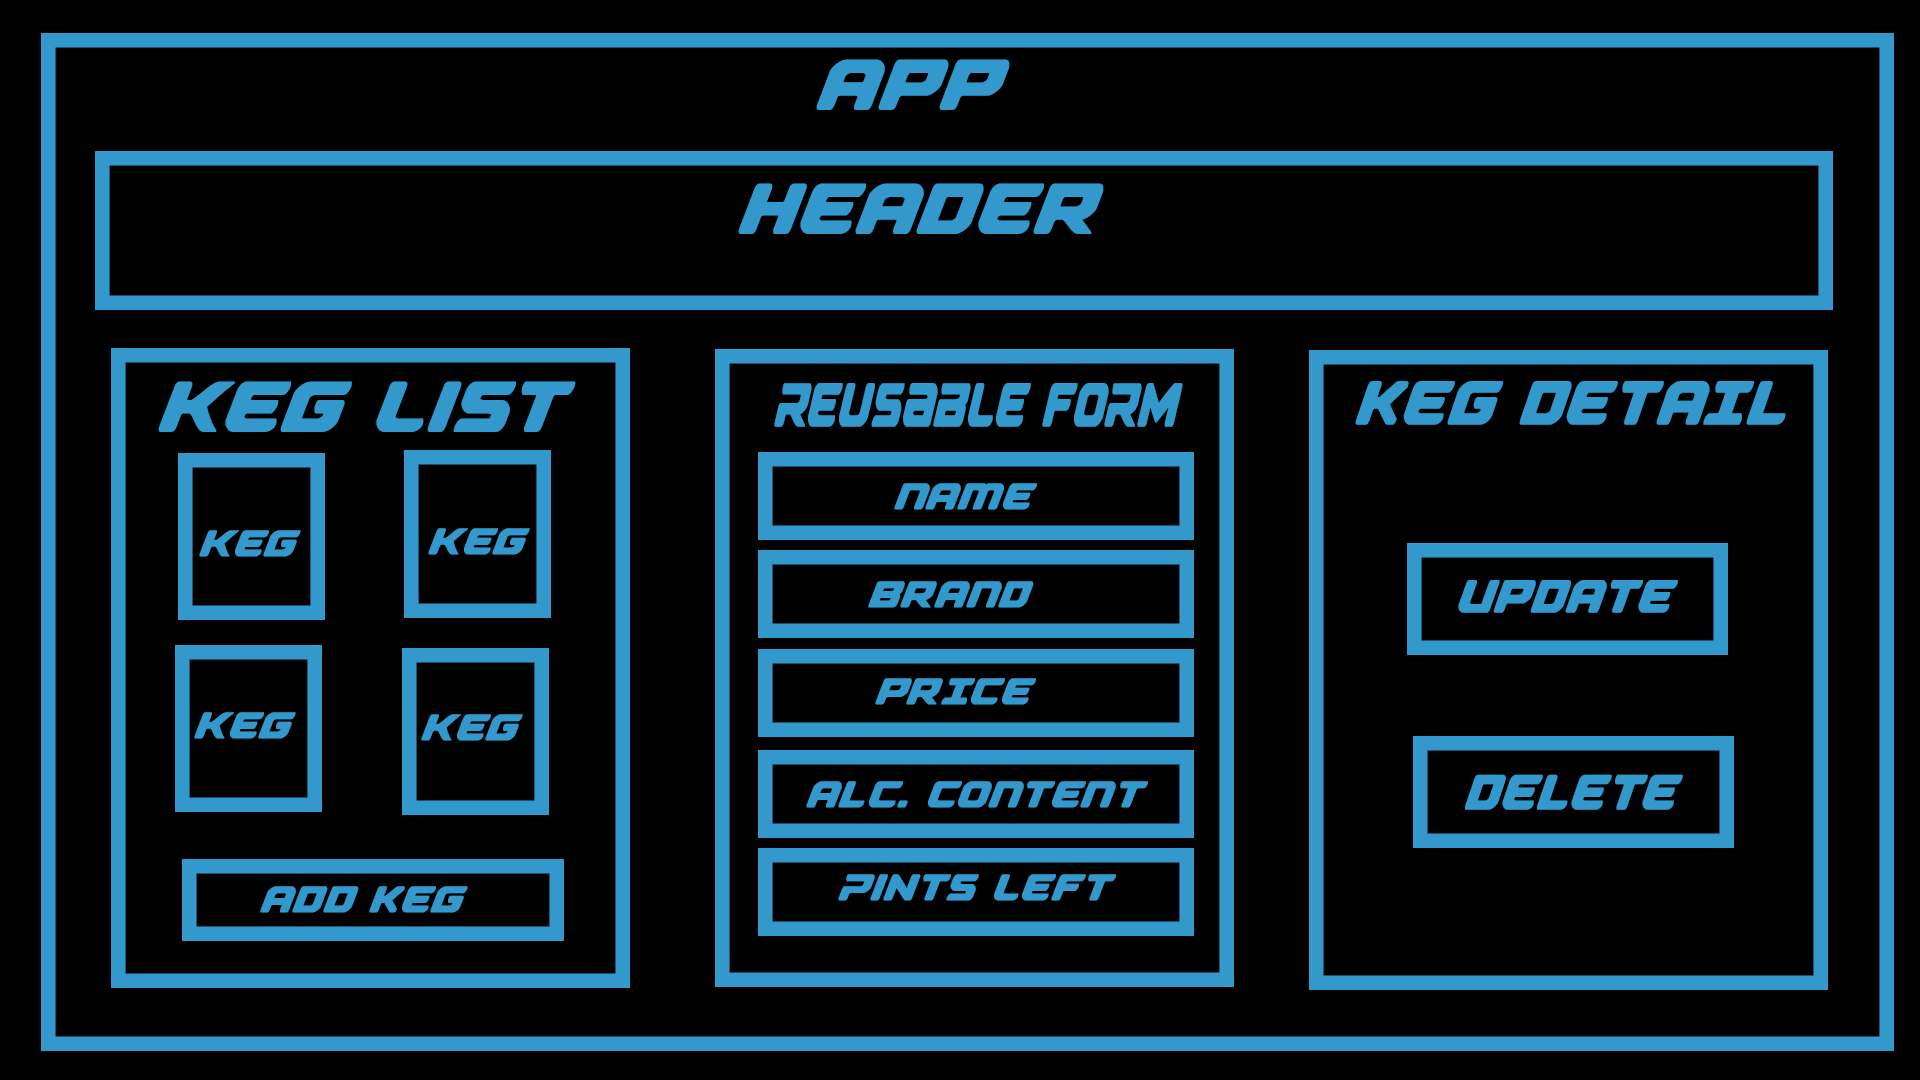
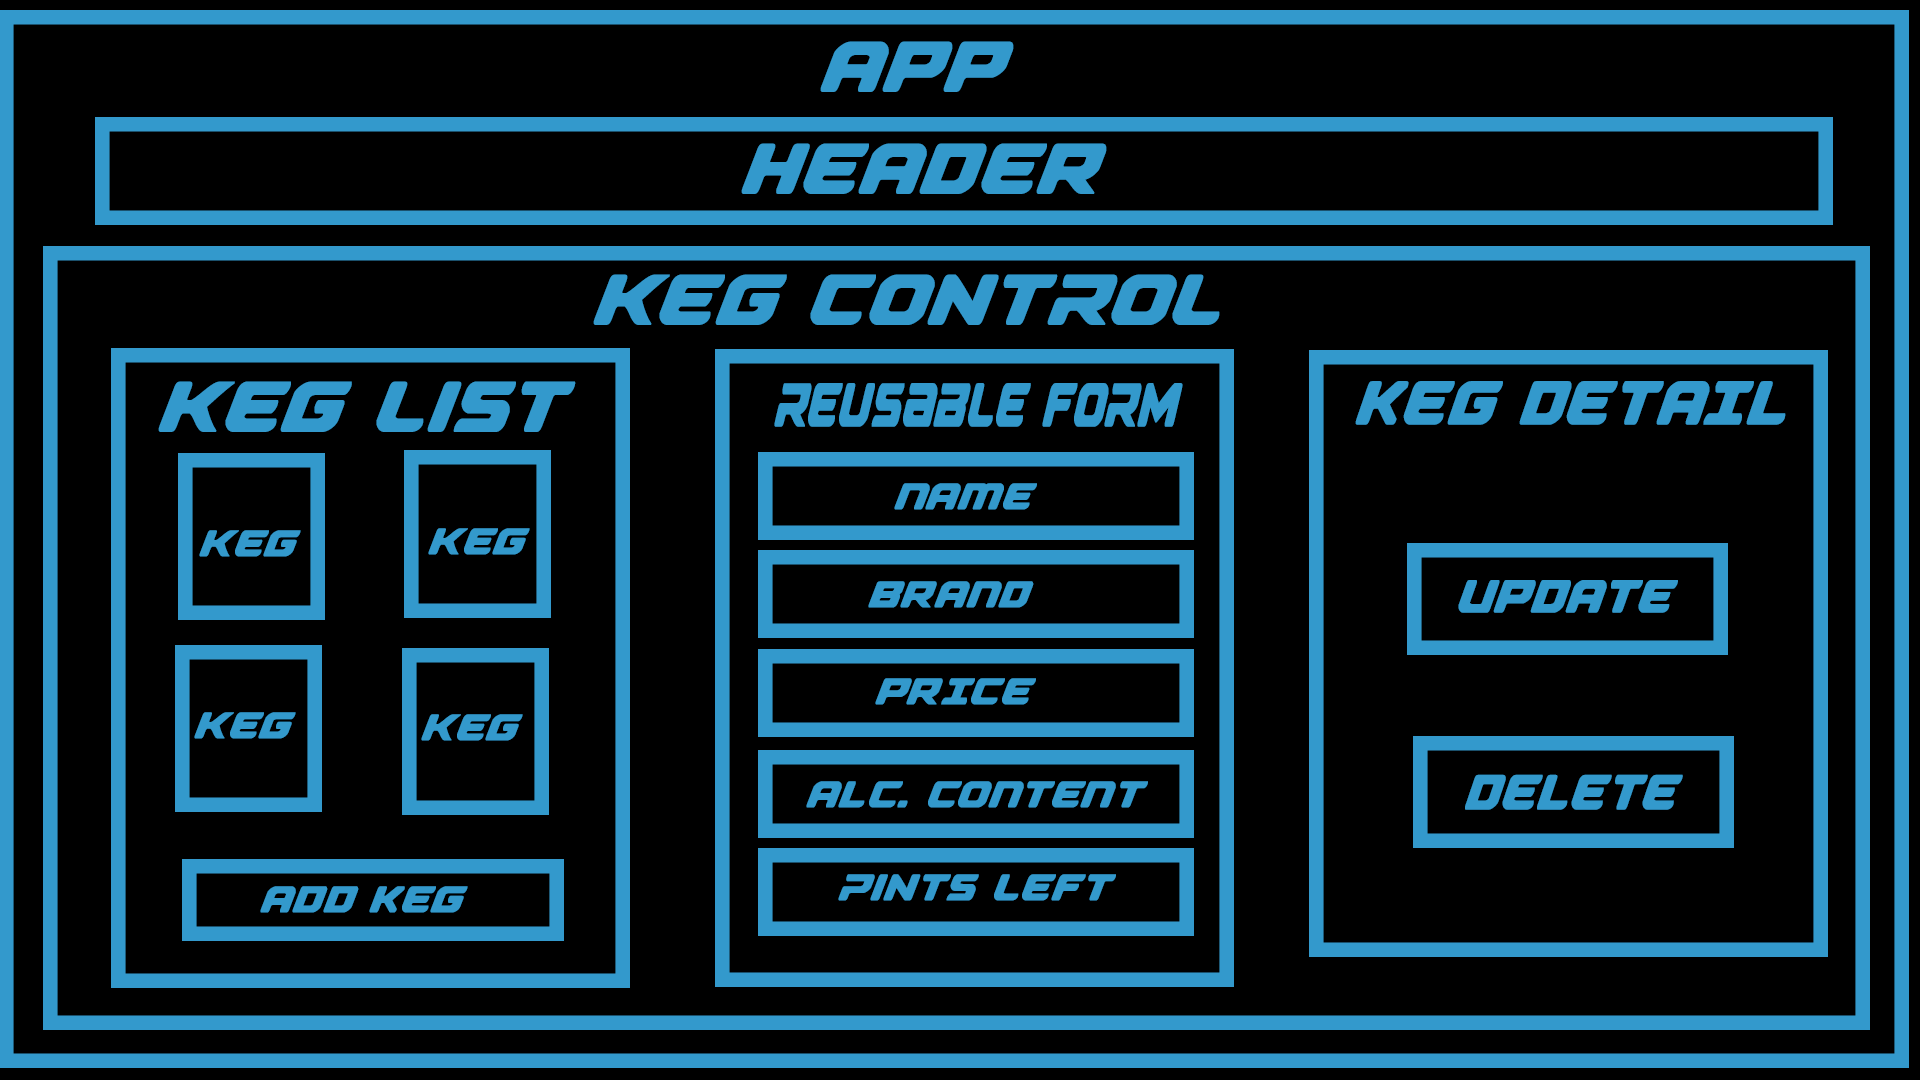
update diagram wtih keg control component

Changed region(s): [[0.0, 0.0, 1.0, 1.0]]

diff --git a/src/index.js b/src/index.js
@@ -1,7 +1,7 @@
 import React from 'react';
 import ReactDOM from 'react-dom';
 import './index.css';
-import App from './App';
+import App from './components/App';
 import reportWebVitals from './reportWebVitals';
 
 ReactDOM.render(
@@ -11,7 +11,5 @@ ReactDOM.render(
   document.getElementById('root')
 );
 
-// If you want to start measuring performance in your app, pass a function
-// to log results (for example: reportWebVitals(console.log))
-// or send to an analytics endpoint. Learn more: https://bit.ly/CRA-vitals
+
 reportWebVitals();
